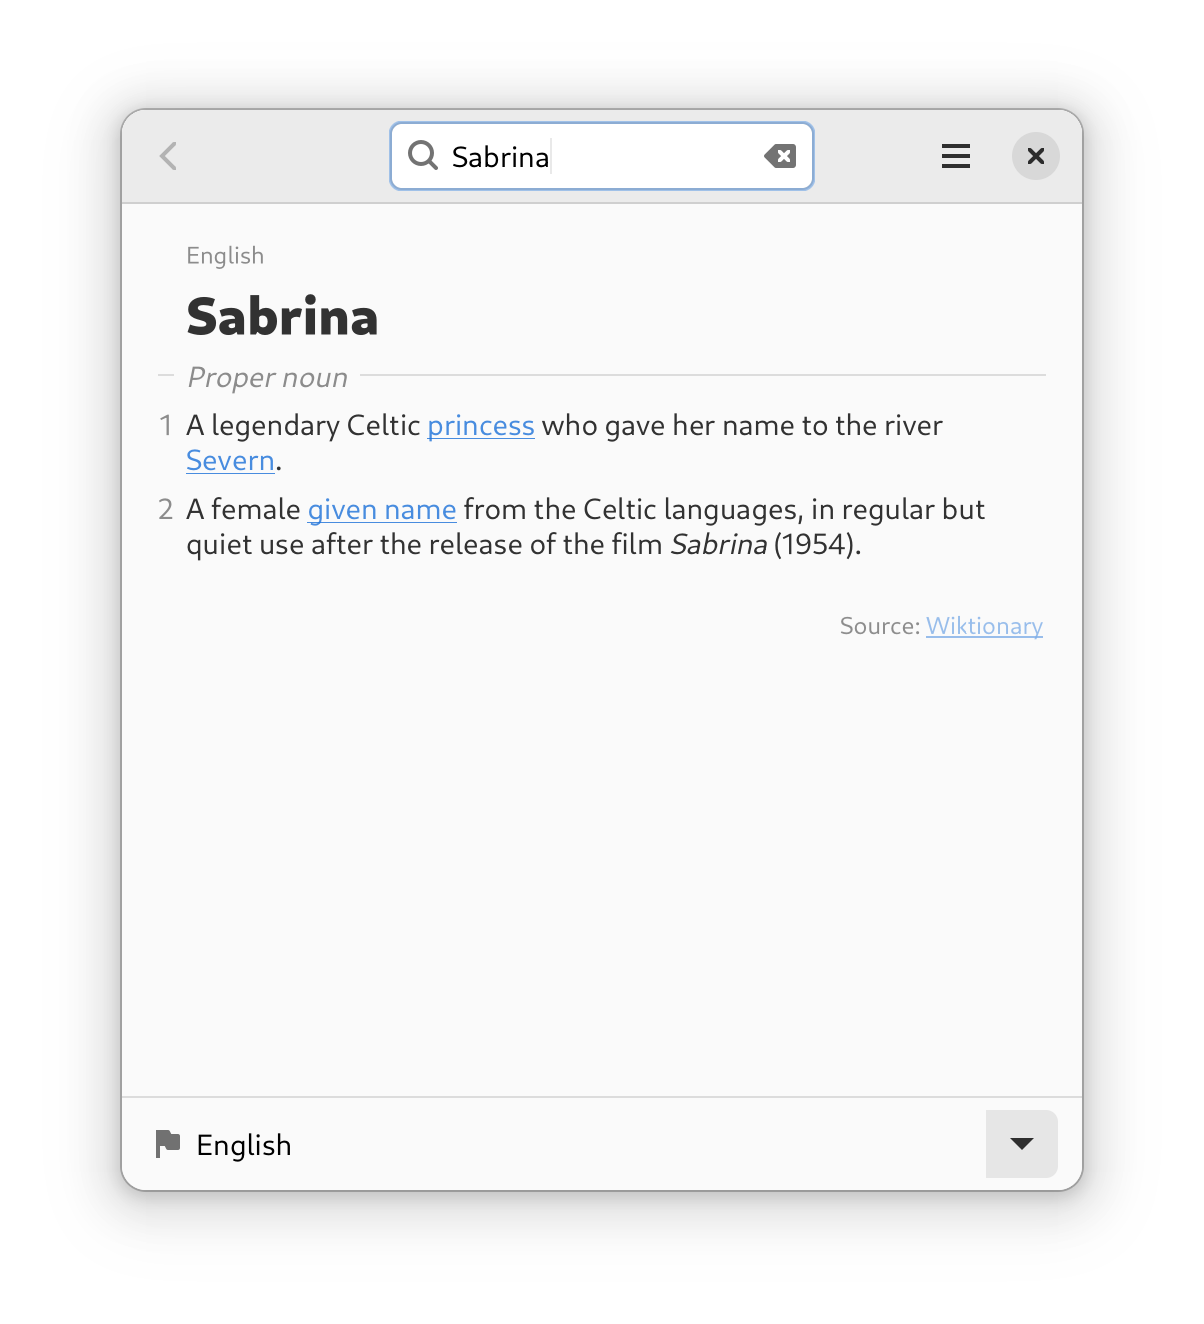
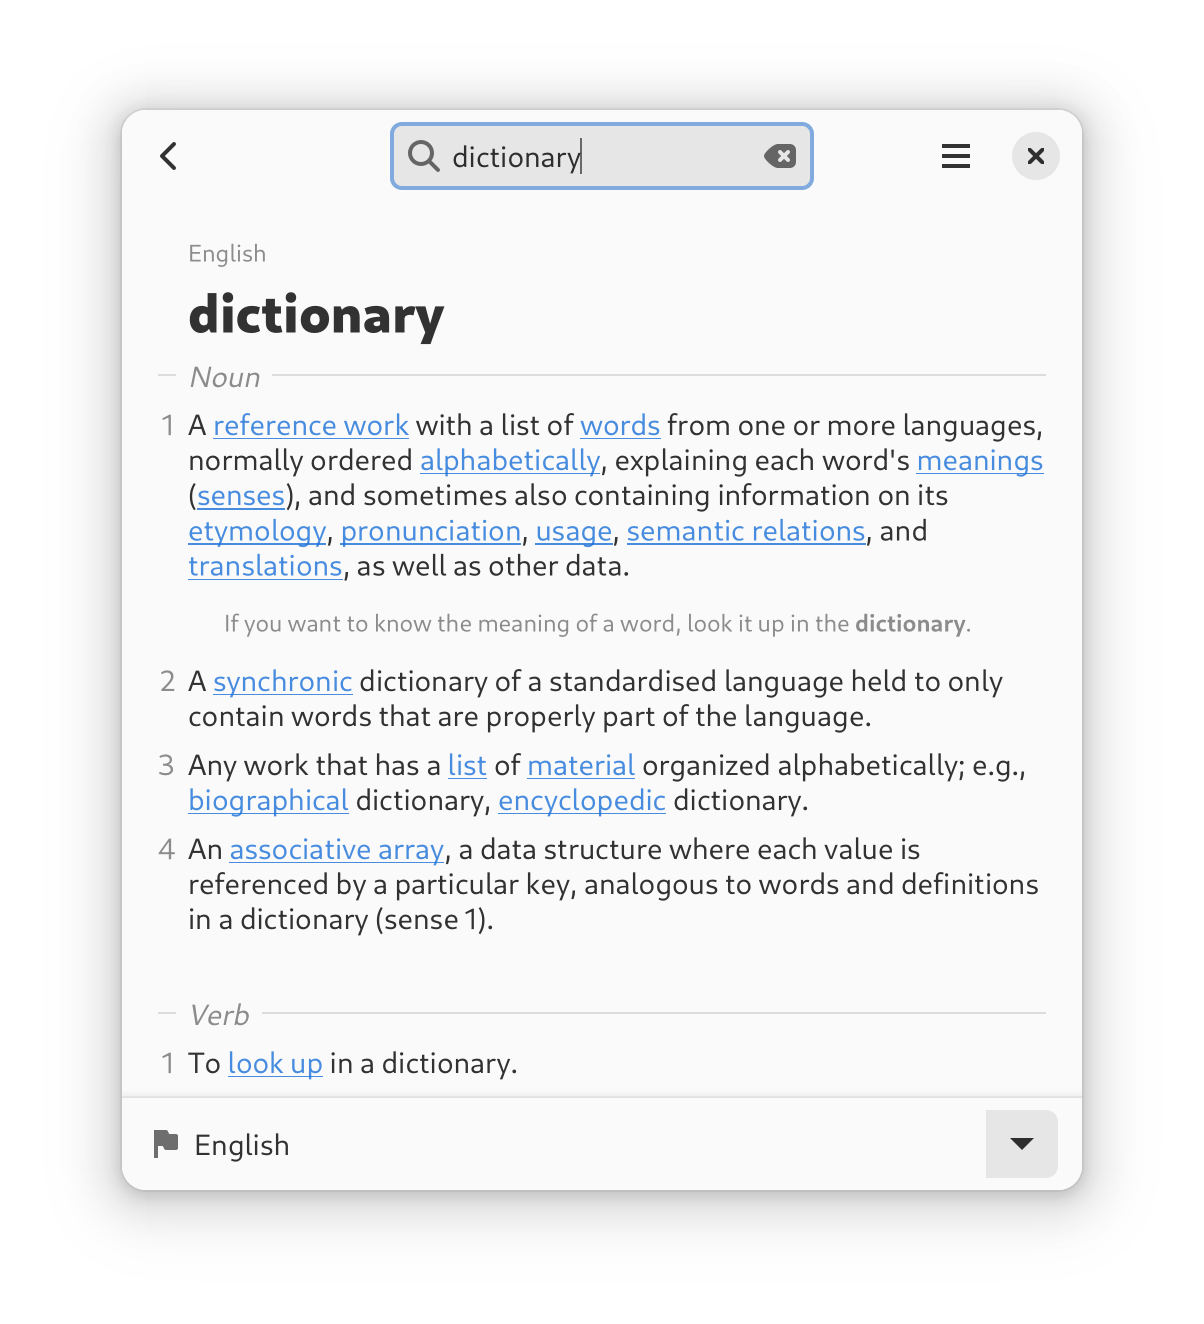
Port to WebKitGTK-6.0 and Libadwaita 1.4

diff --git a/quick-lookup.js b/quick-lookup.js
@@ -16,9 +16,9 @@
 
 imports.gi.versions.Gio = '2.0'
 imports.gi.versions.Gtk = '4.0'
-imports.gi.versions.WebKit2 = '5.0'
+imports.gi.versions.WebKit = '6.0'
 imports.gi.versions.Adw = '1'
-const { GLib, Gio, Gtk, Gdk, WebKit2, Adw } = imports.gi
+const { GLib, Gio, Gtk, Gdk, WebKit, Adw } = imports.gi
 const System = imports.system
 
 const pkg = {
@@ -72,10 +72,10 @@ const scriptRunner = webView => {
     }
     const manager = webView.get_user_content_manager()
     manager.connect(`script-message-received::handler`, (_, result) => {
-        try { handler(JSON.parse(result.get_js_value().to_string())) }
+        try { handler(JSON.parse(result.to_string())) }
         catch (e) { log(e) }
     })
-    const success = manager.register_script_message_handler('handler')
+    const success = manager.register_script_message_handler('handler', null)
     if (!success) throw new Error('failed to register message handler')
 
     const exec = (func, params) => {
@@ -88,14 +88,14 @@ const scriptRunner = webView => {
             .catch(e => globalThis.webkit.messageHandlers.handler.postMessage(
                 JSON.stringify({ token: "${token}", ok: false, payload: e.message })))`
         const promise = makePromise(token)
-        webView.run_javascript(script, null, () => {})
+        webView.evaluate_javascript(script, -1, null, null, null, () => {})
         return promise
     }
     const eval = exp => new Promise((resolve, reject) =>
-        webView.run_javascript(`JSON.stringify(${exp})`, null, (_, result) => {
+        webView.evaluate_javascript(`JSON.stringify(${exp})`, -1, null, null, null, (_, result) => {
             try {
-                const jsResult = webView.run_javascript_finish(result)
-                const str = jsResult.get_js_value().to_string()
+                const jscValue = webView.evaluate_javascript_finish(result)
+                const str = jscValue.to_string()
                 const value = str !== 'undefined' ? JSON.parse(str) : null
                 resolve(value)
             } catch (e) {
@@ -159,8 +159,8 @@ const wiktionary = ({ word, language }) => fetch('${apiURL}' + word)
 globalThis.wiktionary = wiktionary
 })()`
 
-const webView = new WebKit2.WebView({
-    settings: new WebKit2.Settings({
+const webView = new WebKit.WebView({
+    settings: new WebKit.Settings({
         enable_javascript_markup: false,
         enable_write_console_messages_to_stdout: true,
         allow_universal_access_from_file_urls: true,
@@ -300,9 +300,8 @@ const applicationWindowXml = `<?xml version="1.0" encoding="UTF-8"?><interface>
   <property name="default-width">480</property>
   <property name="title">Quick Lookup</property>
   <property name="content">
-    <object class="GtkBox">
-      <property name="orientation">vertical</property>
-      <child>
+    <object class="AdwToolbarView">
+      <child type="top">
         <object class="AdwHeaderBar">
           <property name="title-widget">
             <object class="GtkSearchEntry" id="query-entry">
@@ -313,7 +312,7 @@ const applicationWindowXml = `<?xml version="1.0" encoding="UTF-8"?><interface>
           <child type="start">
             <object class="GtkButton">
               <property name="icon-name">go-previous-symbolic</property>
-              <property name="tooltip-text">Go back</property>
+              <property name="tooltip-text">Back</property>
               <property name="action-name">win.go-back</property>
             </object>
           </child>
@@ -372,7 +371,7 @@ const applicationWindowXml = `<?xml version="1.0" encoding="UTF-8"?><interface>
           </child>
         </object>
       </child>
-      <child>
+      <child type="bottom">
         <object class="GtkActionBar">
           <child type="center">
             <object class="GtkComboBoxText" id="lang-combo">

diff --git a/README.md b/README.md
@@ -20,8 +20,8 @@ Dependencies:
 
 - `gjs (>= 1.70)`
 - `gtk4`
-- `libadwaita`
-- `webkit2gtk4`/`webkit2gtk-5.0`
+- `libadwaita (>= 1.4)`
+- `webkitgtk-6.0`
 
 To install, run `meson builddir && sudo meson install -C builddir`
 
